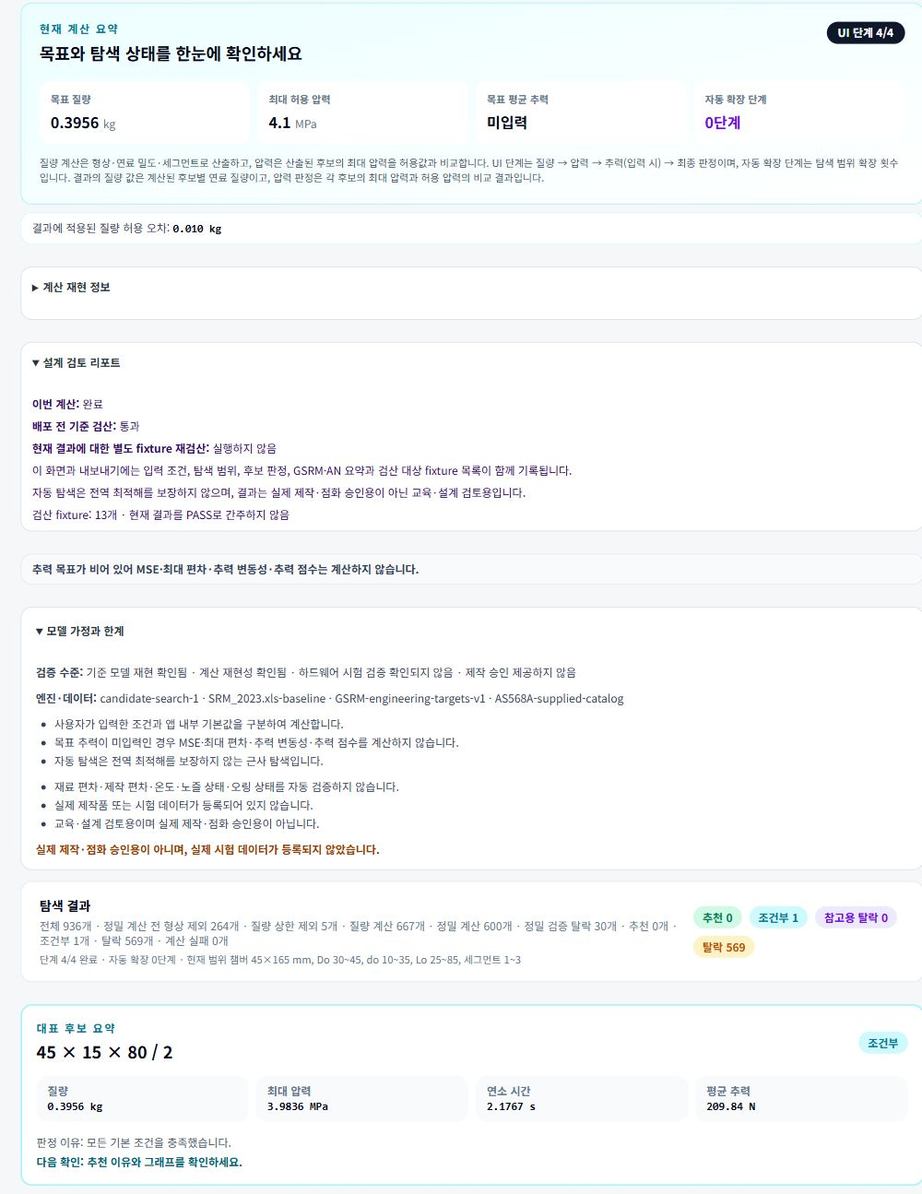
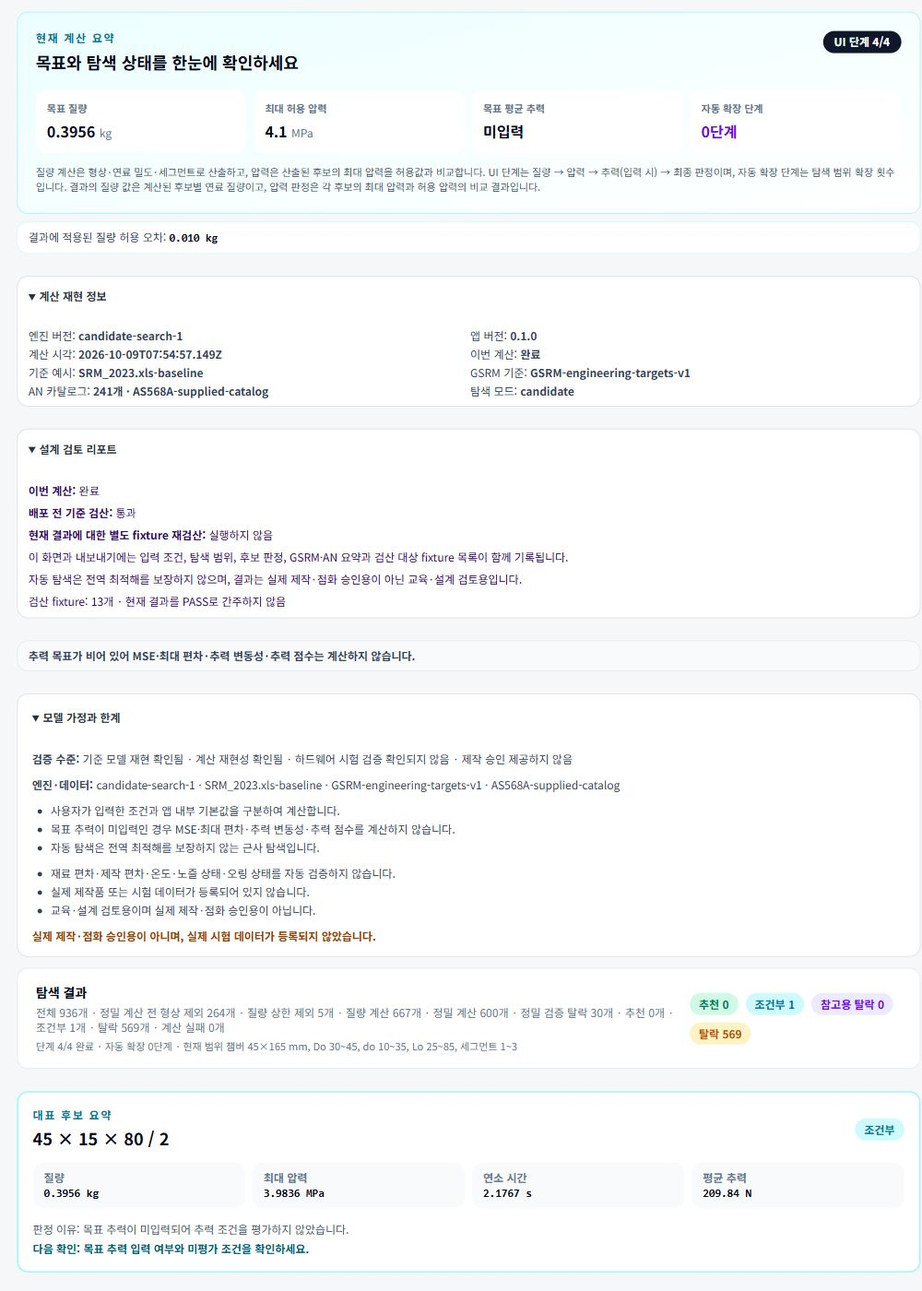
fix: align conditional candidate explanations and README screenshots

diff --git a/src/app/page.tsx b/src/app/page.tsx
@@ -6,6 +6,7 @@ import { AN_SERIES_CATALOG, AN_CATALOG_VERSION, APP_VERSION, BASELINE_VERSION, C
 import type { SelfCheckReport, RpaInputSummary, RpaResultRecord } from "../engine";
 import type { GsrmBatchResult } from "../engine";
 import { SCORE_GUIDANCE, sortCandidates } from "./candidate-table";
+import { burnTimeConditionState, candidateReasonText } from "./candidate-description";
 import type { CandidateSortDirection, CandidateSortKey } from "./candidate-table";
 import type {
   CandidateResult,
@@ -93,6 +94,7 @@ function Field({ label, value, step = "any", onChange, suffix, help }: { label: 
 }
 
 function candidateNextCheck(candidate: CandidateResult) {
+  if (candidate.status === "conditional") return "목표 추력 입력 여부와 미평가 조건을 확인하세요.";
   if (!candidate.reasons.length) return "추천 이유와 그래프를 확인하세요.";
   if (candidate.reasons.some((reason) => reason.includes("질량"))) return "목표 질량과 질량 허용 오차를 조정해 다시 계산하세요.";
   if (candidate.reasons.some((reason) => reason.includes("압력"))) return "최대 허용 압력과 노즐·형상 범위를 확인하세요.";
@@ -143,12 +145,13 @@ function ConditionBadge({ label, state, detail }: { label: string; state: Condit
   return <div className={`rounded-xl border px-3 py-2 ${styles}`}><div className="flex items-center justify-between gap-2 text-xs"><span className="font-semibold">{label}</span><span className="font-bold">{stateLabel}</span></div>{detail ? <p className="mt-1 text-[11px] leading-4 opacity-80">{detail}</p> : null}</div>;
 }
 
-function CandidateConditionSummary({ candidate, config, targetThrustEnabled, automaticMode }: { candidate: CandidateResult; config: CandidateSearchConfig; targetThrustEnabled: boolean; automaticMode: boolean }) {
+function CandidateConditionSummary({ candidate, config }: { candidate: CandidateResult; config: CandidateSearchConfig }) {
+  const targetThrustEnabled = config.targetThrustEnabled !== false;
   const massFailed = candidate.reasons.some((reason) => reason.includes("목표 연료 질량") || reason.includes("연료 질량 허용"));
   const pressurePass = candidate.maximumPressureMpa <= config.maximumPressureMpa;
   const thrustPass = targetThrustEnabled && Math.abs(candidate.averageThrustN - config.targetAverageThrustN) <= config.averageThrustToleranceN;
-  const burnPass = Math.abs(candidate.burnTimeSec - config.targetBurnTimeSec) <= config.burnTimeToleranceSec;
-  return <div className="mt-3 rounded-2xl border border-slate-200 bg-slate-50/80 p-3"><div className="flex flex-wrap items-center justify-between gap-2"><p className="text-xs font-bold text-slate-800">조건별 판정</p><StatusPill status={candidate.status} /></div><div className="mt-3 grid gap-2 sm:grid-cols-2 lg:grid-cols-4"><ConditionBadge label="질량 조건" state={massFailed ? "fail" : "pass"} detail={`${formatNumber(candidate.grainMassKg, 4)} / 목표 ${formatNumber(config.targetFuelMassKg, 4)} kg`} /><ConditionBadge label="압력 조건" state={pressurePass ? "pass" : "fail"} detail={pressurePass ? `${formatNumber(candidate.maximumPressureMpa, 4)} / 허용 ${formatNumber(config.maximumPressureMpa, 4)} MPa` : `압력 허용 범위 초과 · ${formatNumber(candidate.maximumPressureMpa, 4)} / 허용 ${formatNumber(config.maximumPressureMpa, 4)} MPa`} /><ConditionBadge label="목표 추력 조건" state={targetThrustEnabled ? (thrustPass ? "pass" : "fail") : "unset"} detail={targetThrustEnabled ? `${formatNumber(candidate.averageThrustN, 2)} / 목표 ${formatNumber(config.targetAverageThrustN, 2)} N` : "목표 추력이 입력되지 않았습니다."} /><ConditionBadge label="연소시간 조건" state={burnPass ? "pass" : "fail"} detail={`${formatNumber(candidate.burnTimeSec, 4)} / 목표 ${formatNumber(config.targetBurnTimeSec, 4)} s${automaticMode ? " · 자동 탐색에서는 판정 제외" : ""}`} /></div>{candidate.status === "conditional" ? <p className="mt-3 rounded-xl border border-cyan-200 bg-cyan-50 px-3 py-2 text-xs font-semibold leading-5 text-cyan-900">조건부 판정: 목표 추력 미입력 또는 자동 탐색의 연소시간 판정 제외 상태입니다. 추천 후보와 동일한 확정 판정이 아닙니다.</p> : candidate.reasons.length ? <p className="mt-3 rounded-xl border border-rose-200 bg-rose-50 px-3 py-2 text-xs font-semibold leading-5 text-rose-900">판정 사유: {candidate.reasons.join(" ")}</p> : null}</div>;
+  const burnState = burnTimeConditionState(candidate, config);
+  return <div className="mt-3 rounded-2xl border border-slate-200 bg-slate-50/80 p-3"><div className="flex flex-wrap items-center justify-between gap-2"><p className="text-xs font-bold text-slate-800">조건별 판정</p><StatusPill status={candidate.status} /></div><div className="mt-3 grid gap-2 sm:grid-cols-2 lg:grid-cols-4"><ConditionBadge label="질량 조건" state={massFailed ? "fail" : "pass"} detail={`${formatNumber(candidate.grainMassKg, 4)} / 목표 ${formatNumber(config.targetFuelMassKg, 4)} kg`} /><ConditionBadge label="압력 조건" state={pressurePass ? "pass" : "fail"} detail={pressurePass ? `${formatNumber(candidate.maximumPressureMpa, 4)} / 허용 ${formatNumber(config.maximumPressureMpa, 4)} MPa` : `압력 허용 범위 초과 · ${formatNumber(candidate.maximumPressureMpa, 4)} / 허용 ${formatNumber(config.maximumPressureMpa, 4)} MPa`} /><ConditionBadge label="목표 추력 조건" state={targetThrustEnabled ? (thrustPass ? "pass" : "fail") : "unset"} detail={targetThrustEnabled ? `${formatNumber(candidate.averageThrustN, 2)} / 목표 ${formatNumber(config.targetAverageThrustN, 2)} N` : "목표 추력이 입력되지 않았습니다."} /><ConditionBadge label="연소시간 조건" state={burnState} detail={`${formatNumber(candidate.burnTimeSec, 4)} / 목표 ${formatNumber(config.targetBurnTimeSec, 4)} s${config.burnTimeFilterEnabled === false ? " · 자동 탐색에서는 판정 제외" : ""}`} /></div>{candidate.status === "conditional" ? <p className="mt-3 rounded-xl border border-cyan-200 bg-cyan-50 px-3 py-2 text-xs font-semibold leading-5 text-cyan-900">조건부 판정: {candidateReasonText(candidate)} 추천 후보와 동일한 확정 판정이 아닙니다.</p> : candidate.reasons.length ? <p className="mt-3 rounded-xl border border-rose-200 bg-rose-50 px-3 py-2 text-xs font-semibold leading-5 text-rose-900">판정 사유: {candidate.reasons.join(" ")}</p> : null}</div>;
 }
 
 function SortHeader({ label, sortKey, activeKey, direction, onSort }: { label: string; sortKey: CandidateSortKey; activeKey: CandidateSortKey | null; direction: CandidateSortDirection | null; onSort: (key: CandidateSortKey) => void }) {
@@ -1260,7 +1263,7 @@ const requestCancel = () => { cancelRequested.current = true; searchWorker.curre
 <span className="rounded-full bg-amber-100 px-2.5 py-1 font-bold text-amber-700">탈락 {candidateCounts.fail}</span>
 </div>
 </div>
-{(selected ?? closestFailedCandidate) ? <div data-testid="representative-candidate" className="rounded-2xl border-2 border-cyan-200 bg-white p-4 shadow-sm"><div className="flex flex-wrap items-center justify-between gap-2"><div><p className="text-xs font-bold uppercase tracking-[0.14em] text-cyan-700">대표 후보 요약</p><p className="mt-1 text-lg font-bold text-slate-950">{(selected ?? closestFailedCandidate)!.input.grainOuterDiameterMm} × {(selected ?? closestFailedCandidate)!.input.grainCoreDiameterMm} × {(selected ?? closestFailedCandidate)!.input.segmentLengthMm} / {(selected ?? closestFailedCandidate)!.input.segmentCount}</p></div><StatusPill status={(selected ?? closestFailedCandidate)!.status} reference={!hasValidCandidate} /></div><div className="mt-3 grid grid-cols-2 gap-2 text-xs sm:grid-cols-4"><span className="rounded-xl bg-slate-50 px-3 py-2"><strong className="block text-slate-500">질량</strong><b className="font-mono text-slate-950">{formatNumber((selected ?? closestFailedCandidate)!.grainMassKg, 4)} kg</b></span><span className="rounded-xl bg-slate-50 px-3 py-2"><strong className="block text-slate-500">최대 압력</strong><b className="font-mono text-slate-950">{formatNumber((selected ?? closestFailedCandidate)!.maximumPressureMpa, 4)} MPa</b></span><span className="rounded-xl bg-slate-50 px-3 py-2"><strong className="block text-slate-500">연소 시간</strong><b className="font-mono text-slate-950">{formatNumber((selected ?? closestFailedCandidate)!.burnTimeSec, 4)} s</b></span><span className="rounded-xl bg-slate-50 px-3 py-2"><strong className="block text-slate-500">평균 추력</strong><b className="font-mono text-slate-950">{formatNumber((selected ?? closestFailedCandidate)!.averageThrustN, 2)} N</b></span></div><p className="mt-3 text-xs leading-5 text-slate-600">판정 이유: {(selected ?? closestFailedCandidate)!.reasons.join(" ") || "모든 기본 조건을 충족했습니다."}</p><p className="mt-1 text-xs font-semibold text-cyan-800">다음 확인: {candidateNextCheck((selected ?? closestFailedCandidate)!)}</p>{!hasValidCandidate ? <p className="mt-2 rounded-lg bg-violet-50 px-3 py-2 text-xs font-semibold text-violet-900">추천 후보가 없어 목표 질량에 가장 가까운 탈락 후보를 참고용으로 표시합니다.</p> : null}</div> : null}
+{(selected ?? closestFailedCandidate) ? <div data-testid="representative-candidate" className="rounded-2xl border-2 border-cyan-200 bg-white p-4 shadow-sm"><div className="flex flex-wrap items-center justify-between gap-2"><div><p className="text-xs font-bold uppercase tracking-[0.14em] text-cyan-700">대표 후보 요약</p><p className="mt-1 text-lg font-bold text-slate-950">{(selected ?? closestFailedCandidate)!.input.grainOuterDiameterMm} × {(selected ?? closestFailedCandidate)!.input.grainCoreDiameterMm} × {(selected ?? closestFailedCandidate)!.input.segmentLengthMm} / {(selected ?? closestFailedCandidate)!.input.segmentCount}</p></div><StatusPill status={(selected ?? closestFailedCandidate)!.status} reference={!hasValidCandidate} /></div><div className="mt-3 grid grid-cols-2 gap-2 text-xs sm:grid-cols-4"><span className="rounded-xl bg-slate-50 px-3 py-2"><strong className="block text-slate-500">질량</strong><b className="font-mono text-slate-950">{formatNumber((selected ?? closestFailedCandidate)!.grainMassKg, 4)} kg</b></span><span className="rounded-xl bg-slate-50 px-3 py-2"><strong className="block text-slate-500">최대 압력</strong><b className="font-mono text-slate-950">{formatNumber((selected ?? closestFailedCandidate)!.maximumPressureMpa, 4)} MPa</b></span><span className="rounded-xl bg-slate-50 px-3 py-2"><strong className="block text-slate-500">연소 시간</strong><b className="font-mono text-slate-950">{formatNumber((selected ?? closestFailedCandidate)!.burnTimeSec, 4)} s</b></span><span className="rounded-xl bg-slate-50 px-3 py-2"><strong className="block text-slate-500">평균 추력</strong><b className="font-mono text-slate-950">{formatNumber((selected ?? closestFailedCandidate)!.averageThrustN, 2)} N</b></span></div><p className="mt-3 text-xs leading-5 text-slate-600">판정 이유: {candidateReasonText((selected ?? closestFailedCandidate)!)}</p><p className="mt-1 text-xs font-semibold text-cyan-800">다음 확인: {candidateNextCheck((selected ?? closestFailedCandidate)!)}</p>{!hasValidCandidate ? <p className="mt-2 rounded-lg bg-violet-50 px-3 py-2 text-xs font-semibold text-violet-900">추천 후보가 없어 목표 질량에 가장 가까운 탈락 후보를 참고용으로 표시합니다.</p> : null}</div> : null}
 <div className="rounded-2xl border border-slate-200 bg-slate-50 px-4 py-3 text-xs leading-5 text-slate-700" aria-label="후보 상태 정의"><p className="font-bold text-slate-900">후보 상태 정의</p><div className="mt-2 grid gap-2 sm:grid-cols-2"><span><b className="text-emerald-700">추천</b> · 질량·압력 등 기본 조건을 만족</span><span><b className="text-cyan-700">조건부</b> · 일부 조건 확인이 필요한 후보</span><span><b className="text-violet-700">참고용 탈락</b> · 추천·조건부가 모두 없을 때만 가장 가까운 탈락 후보 1개를 참고로 표시</span><span><b className="text-amber-700">탈락</b> · 하나 이상의 조건을 초과</span></div></div>
 {search.candidates.length > 0 && !hasPassCandidate && candidateCounts.conditional > 0 ? <div className="rounded-2xl border-2 border-cyan-300 bg-cyan-50 px-4 py-4 text-sm leading-6 text-cyan-950"><p className="font-bold text-base">추천 후보 없음 · 조건부 후보를 확인하세요</p><p className="mt-1">조건부 후보는 추천으로 승격되지 않으며, 미충족 조건과 다음 확인 항목을 상세 보기에서 확인해야 합니다.</p><div className="mt-3 flex flex-wrap gap-2"><button type="button" onClick={() => conditionalCandidate && openCandidateDetails(conditionalCandidate)} className="rounded-lg bg-cyan-700 px-3 py-2 text-xs font-bold text-white">조건부 후보 상세 보기</button><button type="button" onClick={() => closestFailedCandidate && openCandidateDetails(closestFailedCandidate)} disabled={!closestFailedCandidate} className="rounded-lg border border-violet-300 bg-violet-50 px-3 py-2 text-xs font-bold text-violet-900 disabled:opacity-50">가장 가까운 후보 보기</button><button type="button" onClick={() => { setAutomaticMode(false); setDetailsOpen(true); }} className="rounded-lg border border-slate-300 bg-white px-3 py-2 text-xs font-bold text-slate-800">허용 오차 확인·상세 설정</button><button type="button" onClick={() => runSearch(3)} disabled={running} className="rounded-lg border border-cyan-400 bg-white px-3 py-2 text-xs font-bold text-cyan-900 disabled:opacity-50">현재 입력으로 재계산</button></div></div> : null}
 {search.candidates.length > 0 && !search.candidates.some((candidate) => candidate.status !== "fail") ? <div className="rounded-2xl border-2 border-amber-300 bg-amber-50 px-4 py-4 text-sm leading-6 text-amber-950"><p className="font-bold text-base">유효한 추천 후보 없음</p><p className="mt-1">추천·조건부 후보가 없어 참고용 탈락 후보만 표시합니다.</p><div className="mt-3 flex flex-wrap gap-2"><button type="button" onClick={() => { setAutomaticMode(false); setDetailsOpen(true); }} className="rounded-lg border border-amber-400 bg-white px-3 py-2 text-xs font-bold text-amber-900">허용 오차 조정</button><button type="button" onClick={() => closestFailedCandidate && openCandidateDetails(closestFailedCandidate)} disabled={!closestFailedCandidate} className="rounded-lg border border-violet-300 bg-violet-50 px-3 py-2 text-xs font-bold text-violet-900 disabled:opacity-50">가장 가까운 후보 보기</button><button type="button" onClick={() => { setAutomaticMode(false); setDetailsOpen(true); }} className="rounded-lg border border-slate-300 bg-white px-3 py-2 text-xs font-bold text-slate-800">상세 설정 열기</button><button type="button" onClick={() => runSearch(3)} disabled={running} className="rounded-lg bg-amber-700 px-3 py-2 text-xs font-bold text-white disabled:opacity-50">다시 계산</button></div></div> : null}{search.warning ? <div className="rounded-2xl border border-amber-200 bg-amber-50 px-4 py-3 text-sm text-amber-800">⚠ {search.warning}</div> : null}{search.candidates.length === 0 ? <div className="rounded-2xl border border-amber-200 bg-amber-50 px-4 py-4 text-sm leading-6 text-amber-900">
@@ -1275,7 +1278,7 @@ const requestCancel = () => { cancelRequested.current = true; searchWorker.curre
 </div>
 <div className="rounded-2xl border border-cyan-100 bg-cyan-50/50 px-4 py-3"><div className="flex flex-col gap-3 lg:flex-row lg:items-center lg:justify-between"><div><p className="font-bold text-slate-900">후보 필터·비교·내보내기</p><p className="mt-1 text-[11px] text-slate-600">상태 필터를 선택하고 후보 행의 비교 버튼으로 최대 3개까지 비교하세요.</p></div><div className="flex flex-wrap gap-2" role="group" aria-label="후보 상태 필터">{([['pass','추천'],['conditional','조건부'],['fail','탈락']] as const).map(([value,label]) => <label key={value} className="flex items-center gap-1 rounded-lg bg-white px-2 py-1.5 text-xs"><input type="checkbox" checked={statusFilters.includes(value)} onChange={() => setStatusFilters((current) => current.includes(value) ? current.filter((item) => item !== value) : [...current, value])} />{label}</label>)}</div><div className="flex gap-2"><button type="button" onClick={() => downloadExport("csv")} className="rounded-lg border border-cyan-300 bg-white px-3 py-1.5 text-xs font-bold text-cyan-800 focus:outline-none focus:ring-2 focus:ring-cyan-500">CSV 내보내기</button><button type="button" onClick={() => downloadExport("json")} className="rounded-lg bg-cyan-700 px-3 py-1.5 text-xs font-bold text-white focus:outline-none focus:ring-2 focus:ring-cyan-500">JSON 내보내기</button></div></div><p className="mt-2 text-[11px] text-slate-600">현재 표시 후보 {visibleCandidates.length.toLocaleString()}개 · 비교 {comparison.length}/3</p></div>
 <details className="rounded-2xl border border-violet-200 bg-violet-50/50 px-4 py-3"><summary className="cursor-pointer font-bold text-slate-900">계산 결과 이력</summary><div className="mt-3"><p className="text-[11px] text-slate-600">서버로 전송하지 않고 이 브라우저에 최대 {MAX_SAVED_RESULTS}개까지 저장합니다. 백업 파일에도 계산 결과와 버전 정보가 포함됩니다.</p><div className="mt-3 flex flex-wrap items-center gap-2"><input aria-label="저장 결과 이름" value={saveName} onChange={(event) => setSaveName(event.target.value)} placeholder="저장 이름(선택)" className="w-40 rounded-lg border border-violet-200 bg-white px-2 py-1.5 text-xs" /><button type="button" onClick={saveCurrentResult} className="rounded-lg bg-violet-700 px-3 py-1.5 text-xs font-bold text-white">현재 결과 저장</button><button type="button" onClick={exportHistoryBackup} className="rounded-lg border border-violet-300 bg-white px-3 py-1.5 text-xs font-bold text-violet-800">전체 이력 JSON 백업</button><input ref={backupFileInput} type="file" accept="application/json,.json" className="sr-only" aria-label="계산 결과 백업 파일 선택" onChange={(event) => { const file = event.target.files?.[0]; if (file) void inspectHistoryBackup(file); }} /><button type="button" onClick={() => backupFileInput.current?.click()} className="rounded-lg border border-violet-300 bg-white px-3 py-1.5 text-xs font-bold text-violet-800">백업 JSON 불러오기</button></div>{historyNotice ? <p className="mt-2 rounded-lg bg-white px-2 py-1.5 text-[11px] text-violet-900" role="status">{historyNotice}</p> : null}{pendingImport ? <div className="mt-2 rounded-lg border border-amber-200 bg-amber-50 p-2 text-[11px] text-amber-900"><p>{pendingImport.versionMismatch ? "버전이 다른 결과가 포함되어 있습니다. 계산 결과를 덮어쓰지 않으며, 저장 이력으로만 복원합니다." : "백업 파일을 확인했습니다. 기존 이력을 어떻게 처리할지 선택하세요."}</p><div className="mt-2 flex flex-wrap gap-2"><button type="button" onClick={() => applyHistoryImport(false)} className="rounded-md bg-amber-700 px-2 py-1 font-bold text-white">기존 이력에 추가</button><button type="button" onClick={() => { if (window.confirm("현재 저장 이력을 백업 내용으로 교체할까요?")) applyHistoryImport(true); }} className="rounded-md border border-amber-400 bg-white px-2 py-1 font-bold text-amber-900">전체 교체</button><button type="button" onClick={() => setPendingImport(null)} className="rounded-md border border-slate-300 bg-white px-2 py-1">취소</button></div></div> : null}{savedResults.length ? <div className="mt-3 space-y-2">{savedResults.map((item) => { const versionMismatch = item.payload.metadata?.engineVersion !== CALCULATION_ENGINE_VERSION || item.payload.metadata?.appVersion !== APP_VERSION || item.payload.metadata?.baselineVersion !== BASELINE_VERSION || item.payload.metadata?.gsrmReferenceVersion !== GSRM_REFERENCE_VERSION || item.payload.metadata?.anCatalogVersion !== AN_CATALOG_VERSION; return <div key={item.id} className="flex flex-wrap items-center justify-between gap-2 rounded-xl border border-violet-100 bg-white px-3 py-2 text-xs"><div><p className="font-bold text-slate-900">{item.name}</p><p className="text-[11px] text-slate-500">{new Date(item.savedAt).toLocaleString("ko-KR")} · 후보 {item.payload.search?.totalCombinations?.toLocaleString?.() ?? "-"}개 {versionMismatch ? "· 버전 불일치" : ""}</p></div><div className="flex flex-wrap gap-1.5"><button type="button" onClick={() => loadSavedResult(item)} className="rounded-md border border-violet-200 px-2 py-1 font-semibold text-violet-800">불러오기</button><button type="button" onClick={() => downloadExport("json", item.payload)} className="rounded-md border border-slate-200 px-2 py-1">JSON</button><button type="button" onClick={() => downloadExport("csv", item.payload)} className="rounded-md border border-slate-200 px-2 py-1">CSV</button><button type="button" onClick={() => renameSavedResult(item.id)} className="rounded-md border border-slate-200 px-2 py-1">이름 변경</button><button type="button" onClick={() => deleteSavedResult(item.id)} className="rounded-md border border-rose-200 px-2 py-1 text-rose-700">삭제</button></div></div>})}</div> : <p className="mt-3 text-[11px] text-slate-500">저장된 계산 결과가 없습니다.</p>}<div className="mt-3 flex flex-wrap items-center gap-2"><span className="text-[11px] font-semibold text-slate-600">저장 결과 비교</span><select aria-label="비교 결과 1" value={comparisonResultIds[0]} onChange={(event) => setComparisonResultIds((current) => [event.target.value, current[1]])} className="rounded-lg border border-violet-200 bg-white px-2 py-1.5 text-xs"><option value="">첫 결과 선택</option>{savedResults.map((item) => <option key={item.id} value={item.id}>{item.name}</option>)}</select><select aria-label="비교 결과 2" value={comparisonResultIds[1]} onChange={(event) => setComparisonResultIds(([first]) => [first, event.target.value])} className="rounded-lg border border-violet-200 bg-white px-2 py-1.5 text-xs"><option value="">둘째 결과 선택</option>{savedResults.map((item) => <option key={item.id} value={item.id}>{item.name}</option>)}</select></div>{comparisonResultIds[0] && comparisonResultIds[1] ? <SavedComparison first={savedResults.find((item) => item.id === comparisonResultIds[0])!} second={savedResults.find((item) => item.id === comparisonResultIds[1])!} /> : null}</div></details>
-{comparison.length > 0 ? <div className="rounded-2xl border border-cyan-200 bg-white p-3"><p className="text-xs font-bold text-slate-900">선택 후보 비교 ({comparison.length}/3)</p><div className="mt-2 grid gap-2 sm:grid-cols-3">{comparison.map((candidate) => <div key={`${candidate.input.grainOuterDiameterMm}-${candidate.input.grainCoreDiameterMm}-${candidate.input.segmentLengthMm}-${candidate.input.segmentCount}`} className="rounded-xl border border-slate-200 p-3 text-[11px]"><div className="flex items-center justify-between gap-2"><strong>{candidate.input.grainOuterDiameterMm}×{candidate.input.grainCoreDiameterMm}×{candidate.input.segmentLengthMm}/{candidate.input.segmentCount}</strong><StatusPill status={candidate.status} /></div><p className="mt-2">질량 {formatNumber(candidate.grainMassKg,4)} kg</p><p>압력 {formatNumber(candidate.maximumPressureMpa,4)} MPa</p><p>연소 {formatNumber(candidate.burnTimeSec,4)} s</p><p>추력 {formatNumber(candidate.averageThrustN,2)} N</p><p className="mt-1 text-slate-500">{candidate.reasons.join(" ") || "조건 충족"}</p></div>)}</div></div> : null}
+{comparison.length > 0 ? <div className="rounded-2xl border border-cyan-200 bg-white p-3"><p className="text-xs font-bold text-slate-900">선택 후보 비교 ({comparison.length}/3)</p><div className="mt-2 grid gap-2 sm:grid-cols-3">{comparison.map((candidate) => <div key={`${candidate.input.grainOuterDiameterMm}-${candidate.input.grainCoreDiameterMm}-${candidate.input.segmentLengthMm}-${candidate.input.segmentCount}`} className="rounded-xl border border-slate-200 p-3 text-[11px]"><div className="flex items-center justify-between gap-2"><strong>{candidate.input.grainOuterDiameterMm}×{candidate.input.grainCoreDiameterMm}×{candidate.input.segmentLengthMm}/{candidate.input.segmentCount}</strong><StatusPill status={candidate.status} /></div><p className="mt-2">질량 {formatNumber(candidate.grainMassKg,4)} kg</p><p>압력 {formatNumber(candidate.maximumPressureMpa,4)} MPa</p><p>연소 {formatNumber(candidate.burnTimeSec,4)} s</p><p>추력 {formatNumber(candidate.averageThrustN,2)} N</p><p className="mt-1 text-slate-500">{candidateReasonText(candidate)}</p></div>)}</div></div> : null}
 <details className="mt-3 rounded-2xl border border-amber-200 bg-amber-50/60 px-4 py-3"><summary className="cursor-pointer font-bold text-amber-950">외부 검증 데이터 비교</summary><div className="mt-3 space-y-3 text-xs"><p className="leading-5 text-amber-900">측정값과 계산값의 차이는 모델·입력·측정 조건의 차이를 포함할 수 있습니다. 단일 측정은 일반적 신뢰성을 증명하지 않으며, 비교 결과는 제작·점화 승인이나 안전 판정이 아닙니다. 데이터 품질과 출처는 사용자가 확인하세요.</p><div className="grid gap-2 sm:grid-cols-2"><label>검증 데이터 이름<input aria-label="검증 데이터 이름" value={validationName} onChange={(event) => setValidationName(event.target.value)} className="mt-1 w-full rounded-lg border border-amber-200 bg-white px-2 py-1.5" /></label><label>연결할 계산 결과<select aria-label="검증 데이터 계산 결과" value={validationCalculationId} onChange={(event) => setValidationCalculationId(event.target.value)} className="mt-1 w-full rounded-lg border border-amber-200 bg-white px-2 py-1.5"><option value="current">현재 계산 결과</option>{savedResults.map((item) => <option key={item.id} value={item.id}>{item.name}</option>)}</select></label><label>데이터 출처 설명<input aria-label="검증 데이터 출처" value={validationSource} onChange={(event) => setValidationSource(event.target.value)} placeholder="예: 시험 기록 설명" className="mt-1 w-full rounded-lg border border-amber-200 bg-white px-2 py-1.5" /></label><label>데이터 버전/파일 식별자<input aria-label="검증 데이터 버전" value={validationDataVersion} onChange={(event) => setValidationDataVersion(event.target.value)} className="mt-1 w-full rounded-lg border border-amber-200 bg-white px-2 py-1.5" /></label></div><label className="block">측정 조건 메모<textarea aria-label="검증 데이터 조건 메모" value={validationConditions} onChange={(event) => setValidationConditions(event.target.value)} className="mt-1 min-h-16 w-full rounded-lg border border-amber-200 bg-white px-2 py-1.5" /></label><div className="overflow-x-auto rounded-xl border border-amber-200 bg-white"><table className="min-w-[620px] w-full text-left text-[11px]"><thead><tr className="border-b border-amber-100"><th className="px-2 py-2">항목</th><th className="px-2 py-2">측정값</th><th className="px-2 py-2">단위</th><th className="px-2 py-2">허용 오차(선택)</th></tr></thead><tbody>{VALIDATION_METRICS.map(({ key, label, unit }) => <tr key={key} className="border-b border-amber-50"><td className="px-2 py-2 font-semibold">{label}</td><td className="px-2 py-2"><input aria-label={`측정값 ${label}`} type="number" min="0" step="any" value={validationMeasured[key]} onChange={(event) => setValidationMeasured((current) => ({ ...current, [key]: event.target.value }))} className="w-28 rounded-md border border-slate-200 px-2 py-1" /></td><td className="px-2 py-2">{unit}</td><td className="px-2 py-2"><input aria-label={`허용 오차 ${label}`} type="number" min="0" step="any" value={validationTolerances[key]} onChange={(event) => setValidationTolerances((current) => ({ ...current, [key]: event.target.value }))} className="w-28 rounded-md border border-slate-200 px-2 py-1" /></td></tr>)}</tbody></table></div><div className="flex flex-wrap gap-2"><button type="button" onClick={saveExternalValidation} disabled={!search} className="rounded-lg bg-amber-700 px-3 py-1.5 font-bold text-white disabled:cursor-not-allowed disabled:opacity-50">검증 데이터 저장</button><button type="button" onClick={exportExternalValidationBackup} className="rounded-lg border border-amber-300 bg-white px-3 py-1.5 font-bold text-amber-900">검증 데이터 JSON 백업</button><input ref={validationBackupInput} type="file" accept="application/json,.json" aria-label="검증 데이터 백업 파일 선택" className="sr-only" onChange={(event) => { const file = event.target.files?.[0]; if (file) void importExternalValidationBackup(file); }} /><button type="button" onClick={() => validationBackupInput.current?.click()} className="rounded-lg border border-amber-300 bg-white px-3 py-1.5 font-bold text-amber-900">검증 데이터 복원</button></div>{validationNotice ? <p role="status" className="rounded-lg border border-amber-200 bg-white px-2 py-1.5 text-amber-900">{validationNotice}</p> : null}{activeValidationComparisons.length ? <div className="space-y-3">{activeValidationComparisons.map(({ record, comparisons }) => <div key={record.id} className="rounded-xl border border-amber-200 bg-white p-3"><div className="flex flex-wrap items-center justify-between gap-2"><p className="font-bold text-slate-900">{record.name}</p><button type="button" onClick={() => deleteExternalValidation(record.id)} className="rounded-md border border-rose-200 px-2 py-1 text-rose-700">삭제</button></div><p className="mt-1 text-[11px] text-slate-600">출처: {record.sourceDescription} · 기록: {new Date(record.recordedAt).toLocaleString("ko-KR")} · 버전: {record.dataVersion}</p><div className="mt-2 overflow-x-auto"><table className="min-w-[620px] w-full text-left text-[11px]"><thead><tr className="border-b border-slate-100"><th className="px-2 py-1.5">항목</th><th className="px-2 py-1.5">예측값</th><th className="px-2 py-1.5">측정값</th><th className="px-2 py-1.5">절대 차이</th><th className="px-2 py-1.5">상대 차이</th><th className="px-2 py-1.5">판정</th></tr></thead><tbody>{comparisons.map((item) => { const metric = VALIDATION_METRICS.find((entry) => entry.key === item.metric)!; const statusText = item.status === "within" ? "범위 내" : item.status === "outside" ? "범위 밖" : item.status === "tolerance-unset" ? "허용 오차 미입력" : "비교 불가"; return <tr key={item.metric} className="border-b border-slate-50"><td className="px-2 py-1.5 font-semibold">{metric.label}</td><td className="px-2 py-1.5">{item.predicted == null ? "비교 불가" : `${formatNumber(item.predicted, 4)} ${metric.unit}`}</td><td className="px-2 py-1.5">{item.measured == null ? "비교 불가" : `${formatNumber(item.measured, 4)} ${metric.unit}`}</td><td className="px-2 py-1.5">{item.absoluteDifference == null ? "비교 불가" : `${formatNumber(item.absoluteDifference, 4)} ${metric.unit}`}</td><td className="px-2 py-1.5">{item.relativeDifferencePercent == null ? "비교 불가" : `${formatNumber(item.relativeDifferencePercent, 2)}%`}</td><td className="px-2 py-1.5 font-bold">{statusText}</td></tr>; })}</tbody></table></div>{record.conditionsMemo ? <p className="mt-2 text-[11px] text-slate-600">조건 메모: {record.conditionsMemo}</p> : null}<p className="mt-2 text-[11px] text-amber-800">측정값은 계산 판정·추천·조건부 상태를 변경하지 않습니다.</p></div>)}</div> : <p className="text-[11px] text-slate-600">선택한 계산 결과에 연결된 외부 검증 데이터가 없습니다. 허용 오차를 입력하지 않으면 범위 판정을 하지 않습니다.</p>}</div></details>
 {savedResults.length ? <div className="mt-3 flex flex-wrap items-center gap-2 rounded-xl border border-violet-200 bg-white px-3 py-2 text-xs"><span className="font-semibold text-slate-700">저장 결과 리포트</span><select aria-label="리포트 저장 결과 선택" value={reportResultId} onChange={(event) => setReportResultId(event.target.value)} className="rounded-lg border border-violet-200 px-2 py-1.5"><option value="">결과 선택</option>{savedResults.map((item) => <option key={item.id} value={item.id}>{item.name}</option>)}</select><button type="button" disabled={!reportResultId} onClick={() => { const item = savedResults.find((entry) => entry.id === reportResultId); if (item) printReviewReport(item.payload, item.payload.validation?.calculationStatus ?? "COMPLETED", `MotorFit 저장 결과 · ${item.name}`, setReportNotice); else setReportNotice("리포트 데이터 없음"); }} className="rounded-lg bg-violet-700 px-3 py-1.5 font-bold text-white disabled:cursor-not-allowed disabled:opacity-50">인쇄 / PDF로 저장</button>{reportNotice ? <p role="status" className="basis-full rounded-lg border border-cyan-200 bg-cyan-50 px-3 py-2 text-xs text-cyan-900">{reportNotice}</p> : null}</div> : null}
 <div className="overflow-hidden rounded-3xl border border-slate-200 bg-white shadow-sm">
@@ -1305,13 +1308,13 @@ const requestCancel = () => { cancelRequested.current = true; searchWorker.curre
 <td className="px-4 py-3 font-mono font-semibold text-slate-900">{formatNumber(candidate.burnTimeSec, 4)} <span className="font-sans text-xs text-slate-700">s</span></td>
 <td className="px-4 py-3 font-mono font-semibold text-slate-900">{formatNumber(candidate.averageThrustN, 2)} <span className="font-sans text-xs text-slate-700">N</span></td>
 <td className="px-4 py-3 font-mono font-black text-cyan-800">{formatNumber(candidate.score.totalScore, 1)}</td>
-<td className="max-w-[260px] px-4 py-3 text-[11px] leading-4 text-slate-600">{candidate.reasons.join(" ") || "조건 충족"}<br /><span className="text-cyan-700">다음: {candidateNextCheck(candidate)}</span></td>
+<td className="max-w-[260px] px-4 py-3 text-[11px] leading-4 text-slate-600">{candidateReasonText(candidate)}<br /><span className="text-cyan-700">다음: {candidateNextCheck(candidate)}</span></td>
 <td className="px-4 py-3"><button type="button" aria-label={`${candidate.input.grainOuterDiameterMm} ${candidate.input.grainCoreDiameterMm} ${candidate.input.segmentLengthMm} 상세 보기`} onClick={(event) => { event.stopPropagation(); openCandidateDetails(candidate); }} className="rounded-lg bg-cyan-700 px-2.5 py-1.5 text-[11px] font-bold text-white hover:bg-cyan-800 focus:outline-none focus:ring-2 focus:ring-cyan-500">상세 보기</button></td>
 <td className="px-4 py-3"><button type="button" aria-label="비교 후보 선택" onClick={(event) => { event.stopPropagation(); toggleComparison(candidate); }} className="rounded-lg border border-cyan-300 px-2 py-1 text-[11px] font-bold text-cyan-800 focus:outline-none focus:ring-2 focus:ring-cyan-500">{comparison.some((item) => item === candidate) ? "해제" : "비교"}</button></td>
 </tr>)}</tbody>
 </table>
 </div>
-<div className="divide-y divide-slate-100 sm:hidden">{visibleCandidates.slice(0, 8).map((candidate) => <div key={`${candidate.input.grainOuterDiameterMm}-${candidate.input.grainCoreDiameterMm}-${candidate.input.segmentLengthMm}-${candidate.input.segmentCount}`} className={`w-full p-4 ${candidate.status === "fail" ? "opacity-75" : ""}`}><button type="button" disabled={candidate.status === "fail"} onClick={() => setSelected(candidate)} className="block w-full text-left focus:outline-none focus:ring-2 focus:ring-cyan-500"><div className="flex items-center justify-between gap-3"><StatusPill status={candidate.status} reference={candidate === search.nearestRejectedCandidate} /><span className="font-bold text-slate-800">{candidate.input.grainOuterDiameterMm} × {candidate.input.grainCoreDiameterMm} × {candidate.input.segmentLengthMm} / {candidate.input.segmentCount}</span></div><div className="mt-2 grid grid-cols-3 gap-2 text-[11px] text-slate-500"><span>질량<br /><strong className="text-slate-800">{formatNumber(candidate.grainMassKg, 4)} kg</strong></span><span>최대압력<br /><strong className="text-slate-800">{formatNumber(candidate.maximumPressureMpa, 3)} MPa</strong></span><span>평균추력<br /><strong className="text-slate-800">{formatNumber(candidate.averageThrustN, 1)} N</strong></span></div></button><div className="mt-2 flex flex-wrap gap-2"><button type="button" onClick={() => openCandidateDetails(candidate)} className="rounded-lg bg-cyan-700 px-2 py-1 text-[11px] font-bold text-white focus:outline-none focus:ring-2 focus:ring-cyan-500">상세 보기</button><button type="button" onClick={() => toggleComparison(candidate)} className="rounded-lg border border-cyan-300 px-2 py-1 text-[11px] font-bold text-cyan-800 focus:outline-none focus:ring-2 focus:ring-cyan-500">{comparison.some((item) => item === candidate) ? "비교 해제" : "비교에 추가"}</button></div></div>)}</div>
+<div className="divide-y divide-slate-100 sm:hidden">{visibleCandidates.slice(0, 8).map((candidate) => <div key={`${candidate.input.grainOuterDiameterMm}-${candidate.input.grainCoreDiameterMm}-${candidate.input.segmentLengthMm}-${candidate.input.segmentCount}`} className={`w-full p-4 ${candidate.status === "fail" ? "opacity-75" : ""}`}><button type="button" disabled={candidate.status === "fail"} onClick={() => setSelected(candidate)} className="block w-full text-left focus:outline-none focus:ring-2 focus:ring-cyan-500"><div className="flex items-center justify-between gap-3"><StatusPill status={candidate.status} reference={candidate === search.nearestRejectedCandidate} /><span className="font-bold text-slate-800">{candidate.input.grainOuterDiameterMm} × {candidate.input.grainCoreDiameterMm} × {candidate.input.segmentLengthMm} / {candidate.input.segmentCount}</span></div><div className="mt-2 grid grid-cols-3 gap-2 text-[11px] text-slate-500"><span>질량<br /><strong className="text-slate-800">{formatNumber(candidate.grainMassKg, 4)} kg</strong></span><span>최대압력<br /><strong className="text-slate-800">{formatNumber(candidate.maximumPressureMpa, 3)} MPa</strong></span><span>평균추력<br /><strong className="text-slate-800">{formatNumber(candidate.averageThrustN, 1)} N</strong></span></div></button><p className="mt-2 text-xs leading-5 text-slate-600">{candidateReasonText(candidate)}</p><div className="mt-2 flex flex-wrap gap-2"><button type="button" onClick={() => openCandidateDetails(candidate)} className="rounded-lg bg-cyan-700 px-2 py-1 text-[11px] font-bold text-white focus:outline-none focus:ring-2 focus:ring-cyan-500">상세 보기</button><button type="button" onClick={() => toggleComparison(candidate)} className="rounded-lg border border-cyan-300 px-2 py-1 text-[11px] font-bold text-cyan-800 focus:outline-none focus:ring-2 focus:ring-cyan-500">{comparison.some((item) => item === candidate) ? "비교 해제" : "비교에 추가"}</button></div></div>)}</div>
 </div>{selected ? <div className="space-y-6">
 <div className="flex items-center justify-between">
 <div>
@@ -1353,16 +1356,16 @@ const requestCancel = () => { cancelRequested.current = true; searchWorker.curre
 <MetricCard label="노즐 출구 직경" value={formatNumber(selected.performance.nozzleExitDiameterMm, 3)} unit="mm" />
 <MetricCard label="노즐 출구 면적" value={formatNumber(selected.performance.nozzleExitAreaMm2, 2)} unit="mm²" />
 </div>{selectedRecommendation ? <div className="rounded-2xl border border-cyan-100 bg-cyan-50/60 px-4 py-4">
-<p className="text-sm font-bold text-cyan-950">추천 이유</p>
+<p className="text-sm font-bold text-cyan-950">후보 판정 근거</p>
 <ul className="mt-2 text-xs">
 <RecommendationRow label="목표 질량 오차" value={`${selectedRecommendation.massError >= 0 ? "+" : ""}${formatNumber(selectedRecommendation.massError, 5)} kg`} tone={Math.abs(selectedRecommendation.massError) <= config.fuelMassToleranceKg ? "emerald" : "amber"} />
 <RecommendationRow label="최대 압력 여유" value={`${formatNumber(selectedRecommendation.pressureMargin, 4)} MPa`} tone={selectedRecommendation.pressureMargin >= 0 ? "emerald" : "amber"} />
 {selectedRecommendation.thrustError === null ? <RecommendationRow label="평균 추력 오차" value="목표 추력 미입력" /> : <RecommendationRow label="평균 추력 오차" value={`${selectedRecommendation.thrustError >= 0 ? "+" : ""}${formatNumber(selectedRecommendation.thrustError, 2)} N`} tone={Math.abs(selectedRecommendation.thrustError) <= config.averageThrustToleranceN ? "emerald" : "amber"} />}
 <RecommendationRow label="연소 시간 오차" value={`${selectedRecommendation.burnTimeError >= 0 ? "+" : ""}${formatNumber(selectedRecommendation.burnTimeError, 4)} s`} tone={Math.abs(selectedRecommendation.burnTimeError) <= config.burnTimeToleranceSec ? "emerald" : "amber"} />
 <RecommendationRow label="제작 치수 간격" value={selectedRecommendation.dimensionsOnStep ? `${config.manufacturingStepMm ?? 5} mm 배수` : "간격 조건 확인 필요"} tone={selectedRecommendation.dimensionsOnStep ? "emerald" : "amber"} />
-<RecommendationRow label="판정 사유" value={selected.status === "pass" ? "모든 목표 허용 범위 통과" : selected.reasons.join(" ")} tone={selected.status === "pass" ? "emerald" : "amber"} />
+<RecommendationRow label="판정 사유" value={candidateReasonText(selected)} tone={selected.status === "pass" ? "emerald" : "amber"} />
 </ul>
-</div> : null}<CandidateConditionSummary candidate={selected} config={config} targetThrustEnabled={targetThrustText.trim() !== ""} automaticMode={automaticMode} />{selected.reasons.length ? <div className="rounded-2xl border border-amber-200 bg-amber-50 px-4 py-3 text-sm text-amber-800">
+</div> : null}<CandidateConditionSummary candidate={selected} config={search?.metadata?.input ?? config} />{selected.reasons.length ? <div className="rounded-2xl border border-amber-200 bg-amber-50 px-4 py-3 text-sm text-amber-800">
 <p className="font-bold">탈락·경고 사유</p>
 <ul className="mt-1 list-disc pl-5">{selected.reasons.map((reason) => <li key={reason}>{reason}</li>)}</ul>
 </div> : selected.status === "pass" ? <div className="rounded-2xl border border-emerald-200 bg-emerald-50 px-4 py-3 text-sm text-emerald-800">모든 목표 허용 범위를 만족한 후보입니다.</div> : null}{selectedCharts ? <details className="rounded-2xl border border-slate-200 bg-white p-4"><summary className="cursor-pointer text-sm font-bold text-slate-950">압력·추력·Kn 그래프</summary><div className="mt-3 grid gap-4 2xl:grid-cols-2">

diff --git a/e2e/candidate-description.spec.ts b/e2e/candidate-description.spec.ts
@@ -1,0 +1,42 @@
+import { expect, test } from "@playwright/test";
+
+const reason = "목표 추력이 미입력되어 추력 조건을 평가하지 않았습니다.";
+
+for (const mobile of [false, true]) {
+  test(`기준 예시 조건부 설명 일치 · ${mobile ? "390px 모바일" : "데스크톱"}`, async ({ page }) => {
+    if (mobile) await page.setViewportSize({ width: 390, height: 844 });
+    // Each Playwright context has separate storage; no user history is cleared.
+    await page.goto("/");
+    await page.getByRole("button", { name: "기준 예시 불러오기", exact: true }).click();
+    await page.getByRole("button", { name: "계산 시작", exact: true }).click();
+    await expect(page.getByText(/단계 4\/4 완료/)).toBeVisible({ timeout: 60_000 });
+    const summary = page.getByTestId("representative-candidate");
+    await expect(summary).toContainText("45 × 15 × 80 / 2");
+    await expect(summary).toContainText("0.3956 kg");
+    await expect(summary).toContainText("3.9836 MPa");
+    await expect(summary).toContainText("2.1767 s");
+    await expect(summary).toContainText("209.84 N");
+    await expect(summary).toContainText(reason);
+    await expect(summary.getByRole("status", { name: "조건부 후보" })).toBeVisible();
+    await expect(page.getByText("조건부 1", { exact: true })).toBeVisible();
+    await expect(page.getByText("탈락 569", { exact: true })).toBeVisible();
+    if (mobile) {
+      const card = page.locator(".sm\\:hidden").filter({ hasText: "45 × 15 × 80 / 2" }).first();
+      await expect(card).toContainText(reason);
+      await card.getByRole("button", { name: "상세 보기", exact: true }).first().click();
+    } else {
+      const row = page.locator("tbody tr").filter({ hasText: "45 × 15 × 80 / 2" }).first();
+      await expect(row).toContainText(reason);
+      await expect(row).not.toContainText("조건 충족");
+      await row.getByRole("button", { name: /상세 보기/ }).click();
+    }
+    await expect(page.getByText("조건부 후보 상세", { exact: true })).toBeVisible();
+    await expect(page.locator("li").filter({ hasText: "판정 사유" })).toContainText(reason);
+    await expect(page.getByText(`조건부 판정: ${reason} 추천 후보와 동일한 확정 판정이 아닙니다.`)).toBeVisible();
+    const conditions = page.getByText("조건별 판정", { exact: true }).locator("../..");
+    await expect(conditions).toContainText("목표 추력 조건미입력");
+    await expect(conditions).toContainText("연소시간 조건미적용");
+    await expect(page.getByText("모든 기본 조건을 충족했습니다.", { exact: false })).toHaveCount(0);
+    await expect(page.getByText("평균제곱오차", { exact: true })).toHaveCount(0);
+  });
+}

diff --git a/tests/candidate-description.test.ts b/tests/candidate-description.test.ts
@@ -1,0 +1,37 @@
+import { describe, expect, it } from "vitest";
+import { searchCandidates, VALIDATION_FIXTURES, createValidationSearchConfig } from "../src/engine";
+import { burnTimeConditionState, candidateReasonText } from "../src/app/candidate-description";
+
+describe("candidate explanation follows the existing engine verdict", () => {
+  const config = createValidationSearchConfig(VALIDATION_FIXTURES[0]);
+  const result = searchCandidates(config);
+  const candidate = result.candidates.find((item) => item.status === "conditional")!;
+
+  it("explains the baseline conditional status even when no condition failed", () => {
+    expect(candidate).toBeDefined();
+    expect(candidate.reasons).toEqual([]);
+    expect(candidate.thrustEvaluation).toBeUndefined();
+    expect(candidateReasonText(candidate)).toBe("목표 추력이 미입력되어 추력 조건을 평가하지 않았습니다.");
+    expect(candidate.grainMassKg).toBeCloseTo(VALIDATION_FIXTURES[0].expectedRepresentativeMassKg!, 10);
+  });
+
+  it("does not treat excluded burn time as passed or as the conditional trigger", () => {
+    expect(burnTimeConditionState(candidate, { ...config, burnTimeFilterEnabled: false })).toBe("not-applicable");
+    expect(burnTimeConditionState(candidate, config)).toBe("pass");
+    expect(candidateReasonText(candidate)).not.toContain("연소시간");
+  });
+
+  it("preserves the engine failure reasons and distinguishes an evaluated pass", () => {
+    const rejected = result.candidates.find((item) => item.status === "fail")!;
+    expect(candidateReasonText(rejected)).toBe(rejected.reasons.join(" "));
+    const evaluated = searchCandidates({ ...config, targetThrustEnabled: true }).candidates.find((item) => item.status === "pass")!;
+    expect(evaluated).toBeDefined();
+    expect(candidateReasonText(evaluated)).toBe("평가한 조건을 모두 충족했습니다.");
+  });
+
+  it("does not mutate status, reasons, metrics or ordering", () => {
+    const before = JSON.stringify(result);
+    result.candidates.forEach((item) => { candidateReasonText(item); burnTimeConditionState(item, config); });
+    expect(JSON.stringify(result)).toBe(before);
+  });
+});

diff --git a/src/app/candidate-description.ts b/src/app/candidate-description.ts
@@ -1,0 +1,15 @@
+import type { CandidateResult, CandidateSearchConfig } from "../engine";
+
+// Engine reasons record failed conditions only. An empty list is not a
+// recommendation: the engine keeps an unevaluated target thrust conditional.
+export function candidateReasonText(candidate: Pick<CandidateResult, "status" | "reasons">): string {
+  if (candidate.reasons.length) return candidate.reasons.join(" ");
+  if (candidate.status === "conditional") return "목표 추력이 미입력되어 추력 조건을 평가하지 않았습니다.";
+  if (candidate.status === "pass") return "평가한 조건을 모두 충족했습니다.";
+  return "기록된 탈락 사유가 없습니다. 상세 결과를 확인하세요.";
+}
+
+export function burnTimeConditionState(candidate: Pick<CandidateResult, "burnTimeSec">, config: CandidateSearchConfig): "pass" | "fail" | "not-applicable" {
+  if (config.burnTimeFilterEnabled === false) return "not-applicable";
+  return Math.abs(candidate.burnTimeSec - config.targetBurnTimeSec) <= config.burnTimeToleranceSec ? "pass" : "fail";
+}
